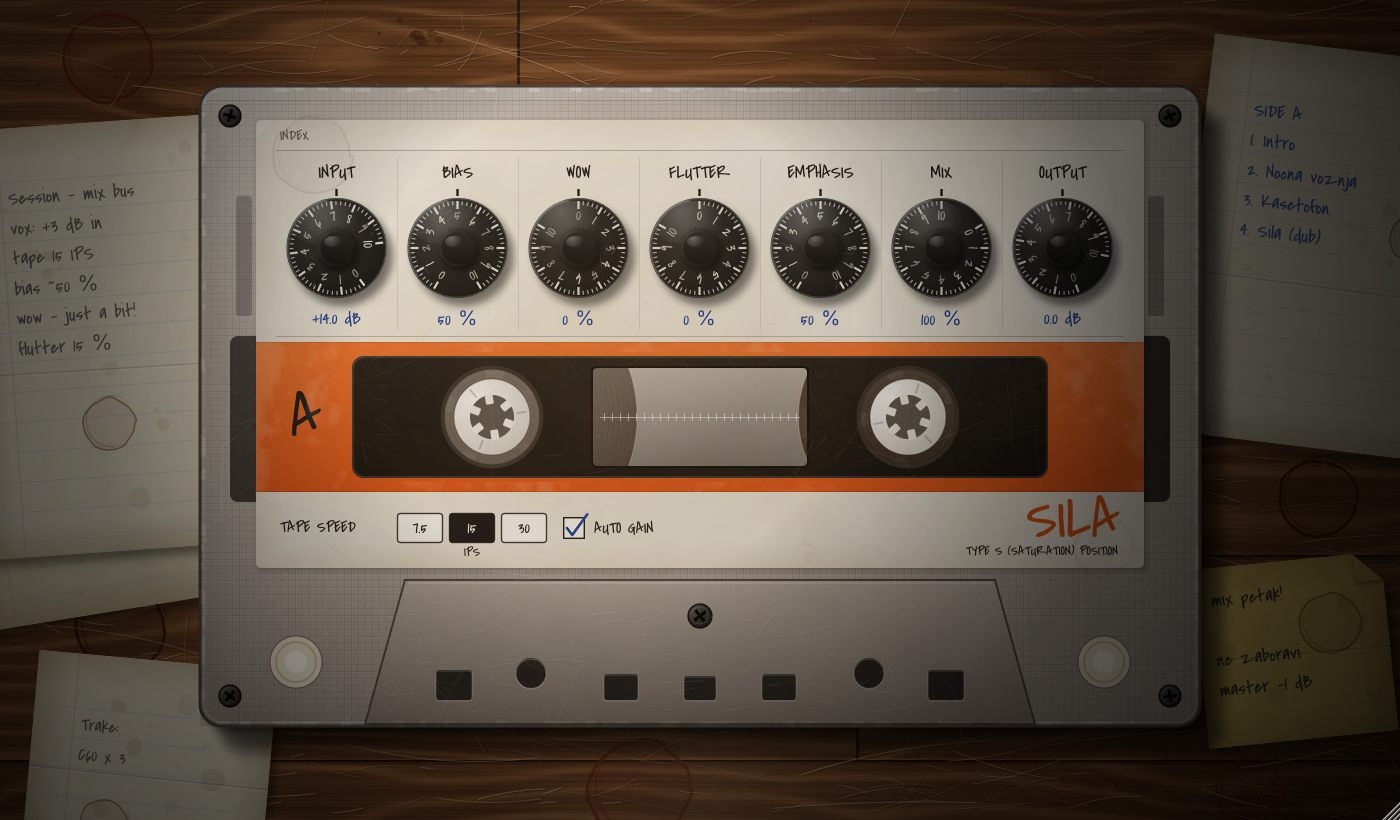
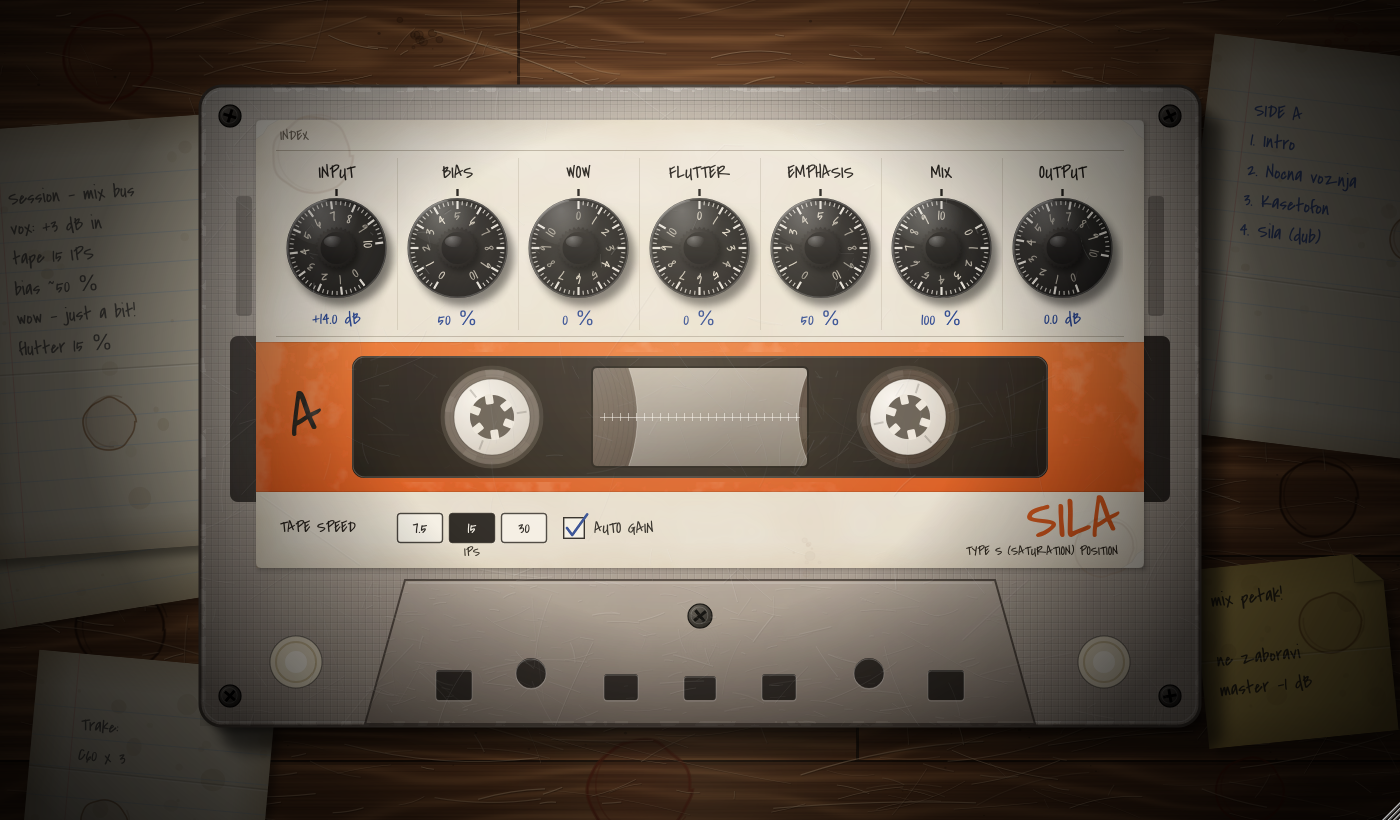
UI: reading-lamp lighting with a bright pool and dark surroundings
Claude-Session: https://claude.ai/code/session_01Eb5cvfZpsXDM7PHUieEaR2

diff --git a/Source/PluginEditor.cpp b/Source/PluginEditor.cpp
@@ -811,23 +811,28 @@ void CassetteDeck::paintOverChildren (juce::Graphics& g)
     using namespace juce;
     const auto bounds = getLocalBounds().toFloat();
 
-    // Desk lamp above the upper left: a warm pool of light centred on the cassette,
-    // falling off into shadow towards the edges of the desk.
-    const auto light = cassette.getCentre().translated (-90.0f, -70.0f);
+    // Desk lamp above the upper left, like a reading lamp at night: a bright, warm pool of
+    // light on the cassette and a fast fall-off into a dark room, where the desk and the
+    // papers are only just visible.
+    const auto light = cassette.getCentre().translated (-25.0f, -35.0f);
+    const float stretch = 1.2f; // the pool is wider than it is tall
 
-    ColourGradient warm (Colour (0x1cffc070), light, Colour (0x00ffc070), light.translated (480.0f, 0.0f), true);
-    g.setGradientFill (warm);
-    g.fillRect (bounds);
+    Graphics::ScopedSaveState s (g);
+    g.addTransform (AffineTransform::scale (stretch, 1.0f, light.x, light.y));
+    const auto area = bounds.transformedBy (AffineTransform::scale (1.0f / stretch, 1.0f, light.x, light.y));
 
-    ColourGradient falloff (Colour (0x00000000), light, Colour (0xd8000000), light.translated (950.0f, 0.0f), true);
-    falloff.addColour (0.26, Colour (0x00000000));
-    falloff.addColour (0.55, Colour (0x80000000));
+    ColourGradient glow (Colour (0x3cfff1d6), light, Colour (0x00fff1d6), light.translated (430.0f, 0.0f), true);
+    glow.addColour (0.5, Colour (0x1cfff1d6));
+    g.setGradientFill (glow);
+    g.fillRect (area);
+
+    ColourGradient falloff (Colour (0x00000000), light, Colour (0xee000000), light.translated (1000.0f, 0.0f), true);
+    falloff.addColour (0.25, Colour (0x00000000));
+    falloff.addColour (0.37, Colour (0x58000000));
+    falloff.addColour (0.50, Colour (0xb0000000));
+    falloff.addColour (0.68, Colour (0xdc000000));
     g.setGradientFill (falloff);
-    g.fillRect (bounds);
-
-    // The lamp sits off to the top left, so the far side is a touch darker.
-    g.setGradientFill (ColourGradient (Colour (0x00000000), 0.0f, 0.0f, Colour (0x38000000), bounds.getRight(), bounds.getBottom(), false));
-    g.fillRect (bounds);
+    g.fillRect (area);
 }
 
 void CassetteDeck::paintDesk (juce::Graphics& g)
